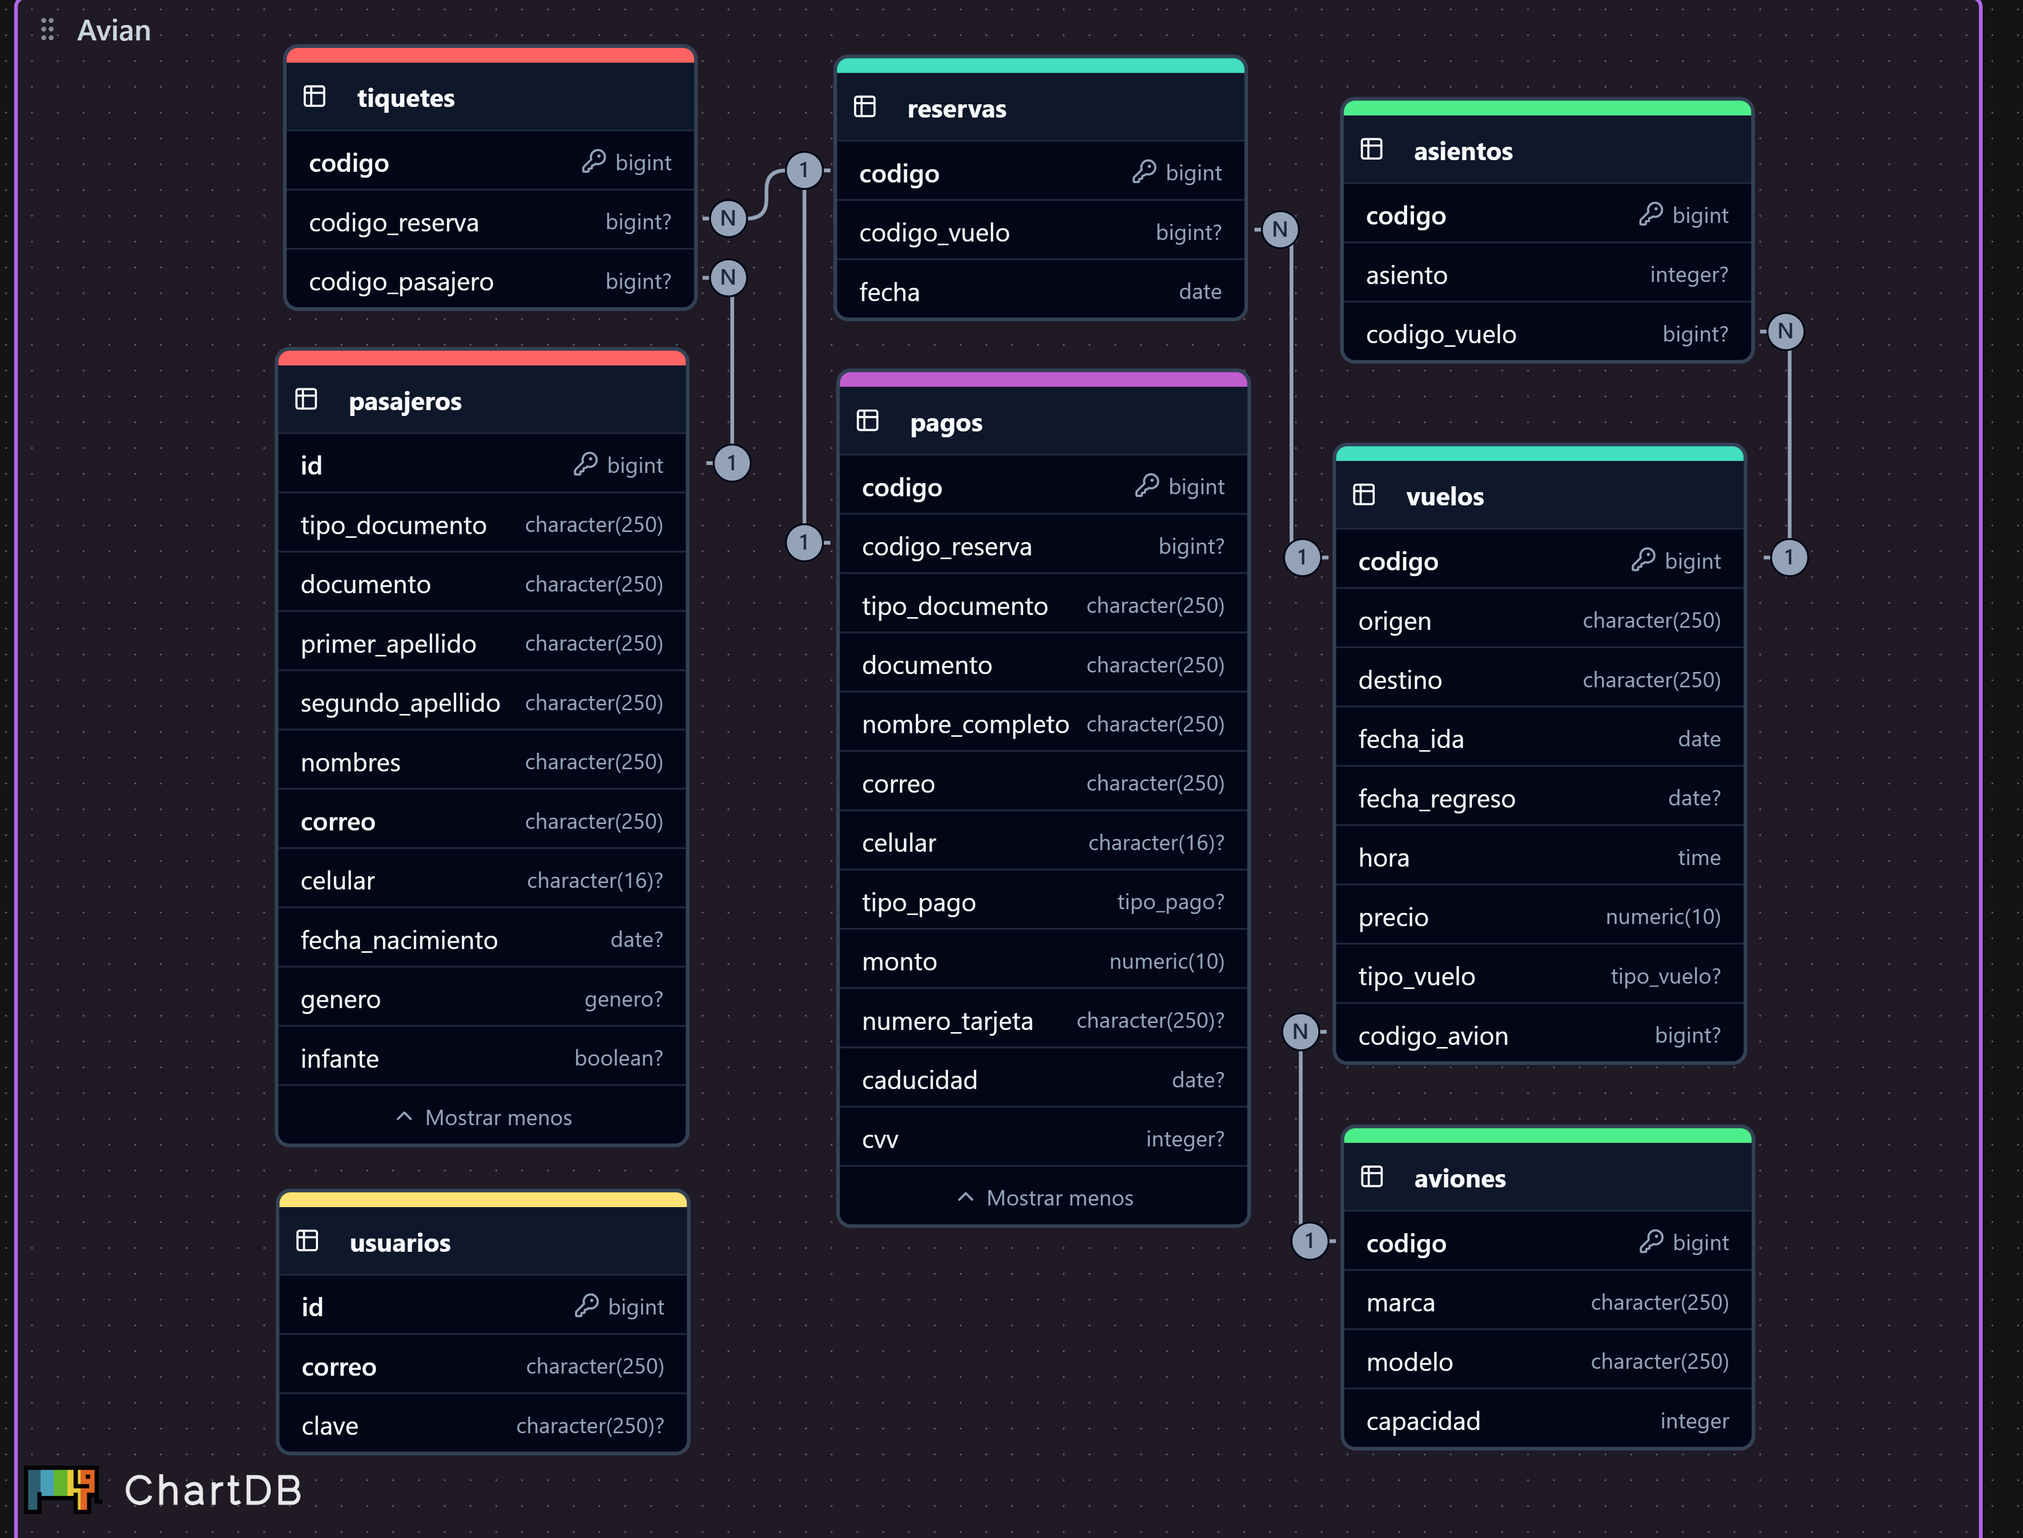
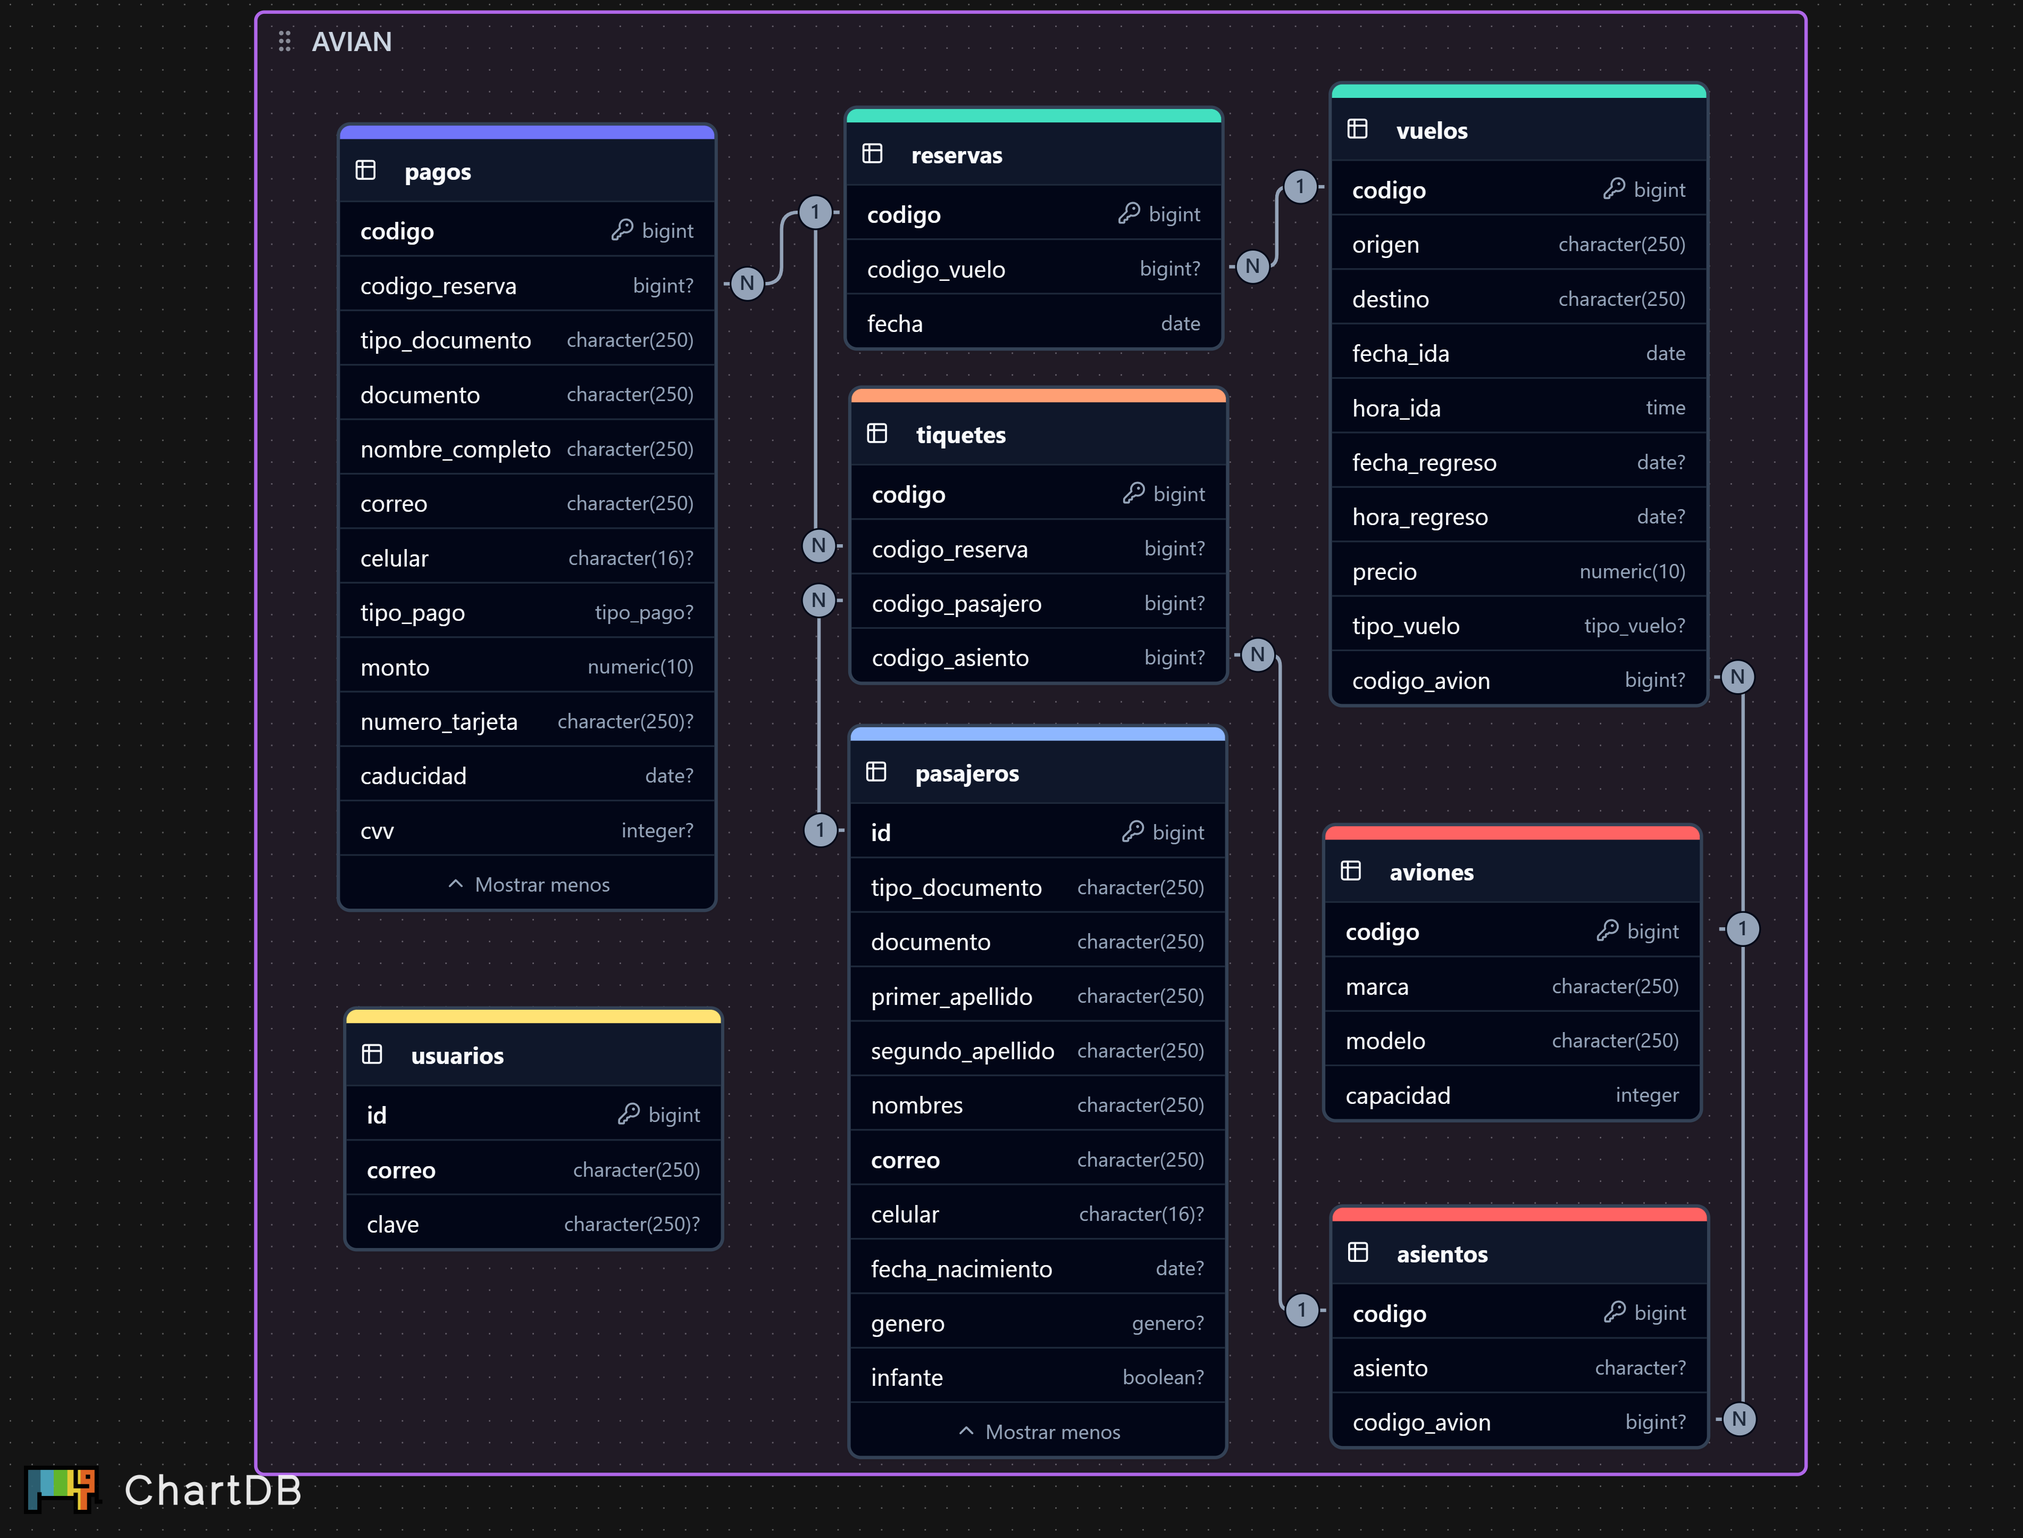
Se temirna el BackEnd

Changed region(s): [[0.1241, 0.0, 0.8996, 0.9651], [0.0, 0.0, 0.062, 0.0311], [0.8686, 0.0, 0.8996, 0.0311]]

diff --git a/BackEnd/app/context/SenaSoftContext.py b/BackEnd/app/context/SenaSoftContext.py
@@ -20,6 +20,7 @@ class Aviones(Base):
     capacidad: Mapped[int] = mapped_column(Integer, nullable=False)
 
     vuelos: Mapped[list['Vuelos']] = relationship('Vuelos', back_populates='aviones')
+    asientos: Mapped[list['Asientos']] = relationship('Asientos', back_populates='aviones')
 
 
 class Pasajeros(Base):
@@ -75,22 +76,22 @@ class Vuelos(Base):
     codigo_avion: Mapped[int] = mapped_column(BigInteger)
 
     aviones: Mapped['Aviones'] = relationship('Aviones', back_populates='vuelos')
-    asientos: Mapped[list['Asientos']] = relationship('Asientos', back_populates='vuelos')
     reservas: Mapped[list['Reservas']] = relationship('Reservas', back_populates='vuelos')
 
 
 class Asientos(Base):
     __tablename__ = 'asientos'
     __table_args__ = (
-        ForeignKeyConstraint(['codigo_vuelo'], ['vuelos.codigo'], name='asientos_codigo_vuelo_fkey'),
+        ForeignKeyConstraint(['codigo_avion'], ['aviones.codigo'], name='asientos_codigo_avion_fkey'),
         PrimaryKeyConstraint('codigo', name='asientos_pkey')
     )
 
     codigo: Mapped[int] = mapped_column(BigInteger, primary_key=True)
-    asiento: Mapped[int] = mapped_column(Integer)
-    codigo_vuelo: Mapped[int] = mapped_column(BigInteger)
+    asiento: Mapped[str] = mapped_column(String(250 ))
+    codigo_avion: Mapped[int] = mapped_column(BigInteger)
 
-    vuelos: Mapped['Vuelos'] = relationship('Vuelos', back_populates='asientos')
+    aviones: Mapped['Aviones'] = relationship('Aviones', back_populates='asientos')
+    tiquetes: Mapped['Tiquetes'] = relationship('Tiquetes', back_populates='asientos')
 
 
 class Reservas(Base):
@@ -137,12 +138,15 @@ class Tiquetes(Base):
     __table_args__ = (
         ForeignKeyConstraint(['codigo_pasajero'], ['pasajeros.id'], name='tiquetes_codigo_pasajero_fkey'),
         ForeignKeyConstraint(['codigo_reserva'], ['reservas.codigo'], name='tiquetes_codigo_reserva_fkey'),
+        ForeignKeyConstraint(['codigo_asiento'], ['asientos.codigo'], name='tiquetes_codigo_asiento_fkey'),
         PrimaryKeyConstraint('codigo', name='tiquetes_pkey')
     )
 
     codigo: Mapped[int] = mapped_column(BigInteger, primary_key=True)
     codigo_reserva: Mapped[int] = mapped_column(BigInteger)
     codigo_pasajero: Mapped[int] = mapped_column(BigInteger)
+    codigo_asiento: Mapped[int] = mapped_column(BigInteger)
 
     pasajeros: Mapped['Pasajeros'] = relationship('Pasajeros', back_populates='tiquetes')
     reservas: Mapped['Reservas'] = relationship('Reservas', back_populates='tiquetes')
+    asientos: Mapped['Asientos'] = relationship('Asientos', back_populates='tiquetes')

diff --git a/BackEnd/app/features/asientos/application/Add.py b/BackEnd/app/features/asientos/application/Add.py
@@ -18,37 +18,36 @@ class Add:
 
     async def execute_async(self, seat: SendDTO):
         get_plane_by_code = GetPlaneByCode(self.uow)
-        get_flight_by_code = GetFlightByCode(self.uow)
+        # get_flight_by_code = GetFlightByCode(self.uow)
 
         # Validacion que el asiento sea un numero positivo
         if seat.asiento <= 0:
             raise HTTPException(404, "El asiento es invalido")
 
-        # Llamamos al caso de uso de obtener vuelo por codigo
-        flight = await get_flight_by_code.execute_async(seat.codigo_vuelo)
+        # # Llamamos al caso de uso de obtener vuelo por codigo
+        # flight = await get_flight_by_code.execute_async(seat.codigo_vuelo)
         
-        # Validamos que el vuelo exista
-        if not flight:
-            raise HTTPException(404, "No se encontro el vuelo")
+        # # Validamos que el vuelo exista
+        # if not flight:
+        #     raise HTTPException(404, "No se encontro el vuelo")
         
         # Llamamos al caso de uso de obtener avion por codigo
-        plane = await get_plane_by_code.execute_async(flight.codigo_avion)
+        plane = await get_plane_by_code.execute_async(seat.codigo_avion)
 
         # Validamos que el avion exista
         if not plane:
             raise HTTPException(404, "No se encontro el avion")
+        
+        seats_list = await self.repository.get_seats_by_plane_code(seat.codigo_avion)
 
         # Validamos que el asiento no supere la capacidad del avion
-        if seat.asiento > plane.capacidad:
+        if len(seats_list) > plane.capacidad:
             raise HTTPException(400, "El asiento esta fuera de la capacidad del avion")
 
-        # Obtenemos todos los asientos
-        seats_list = await self.repository.get_all()
-
-        # Validamos que el asiento no este en la lista
+        # Validamos que el asiento no exista
         for seat_in_list in seats_list:
             if seat_in_list.asiento == seat.asiento:
-                raise HTTPException(400, "El asiento ya esta en uso")
+                raise HTTPException(400, "El asiento ya existe")
 
         return await self.repository.add(seat)
         

diff --git a/BackEnd/app/features/pasajeros/application/Add.py b/BackEnd/app/features/pasajeros/application/Add.py
@@ -2,8 +2,11 @@
 from app.core.unit_of_work import UnitOfWork
 # Repository
 from app.features.pasajeros.infrastructure.Repository import Repository
+# Application
+from app.features.pasajeros.application.GetByEmail import GetByEmail
 # DTOs
-from app.features.pasajeros.DTOs.SendDTO import SendDTO
+from app.features.pasajeros.DTOs.PassengerListDTO import PassengerListDTO
+from app.features.asientos.DTOs.SendDTO import SendDTO as AsientosSendDTO
 # Python
 from datetime import date
 
@@ -13,14 +16,24 @@ class Add:
         self.uow = uow
         self.repository = Repository(self.uow.session)
 
-    async def execute_async(self, passenger: SendDTO):
-        # Calculamos la edad
-        edad = date.today() - passenger.fecha_nacimiento
+    async def execute_async(self, passenger_list: PassengerListDTO):
+        get_by_email = GetByEmail(self.uow)
         
-        # Validamos si es un infante
-        if (edad.days / 365) < 3:
-            passenger.infante = True
-        else: 
-            passenger.infante = False
+        for passenger in passenger_list.lista_pasajeros:
+            passenger_in_db = await get_by_email.execute_async(passenger.correo)
+
+            if passenger_in_db:
+                continue
+
+            # Calculamos la edad
+            edad = date.today() - passenger.fecha_nacimiento
+            
+            # Validamos si es un infante
+            if (edad.days / 365) < 3:
+                passenger.infante = True
+            else: 
+                passenger.infante = False
+
+            await self.repository.add(passenger)
         
-        return await self.repository.add(passenger)
+        return "Pasajeros agregados"

diff --git a/BackEnd/app/features/vuelos/infrastructure/Repository.py b/BackEnd/app/features/vuelos/infrastructure/Repository.py
@@ -2,14 +2,18 @@
 from typing import List
 # SQLAlchemy
 from sqlalchemy.ext.asyncio import AsyncSession
-from sqlalchemy import select
+from sqlalchemy import select, or_, String, func
 # Context
 from app.context.SenaSoftContext import Vuelos
 # DTOs
 from app.features.vuelos.DTOs.GetDTO import GetDTO
 from app.features.vuelos.DTOs.SendDTO import SendDTO
+from app.features.vuelos.DTOs.EnumTipoVuelo import EnumTipoVuelo
 # Model
 from app.features.vuelos.domain.Model import VuelosModel
+# Python
+from typing import Optional
+from datetime import date
 
 
 class Repository:
@@ -17,8 +21,34 @@ class Repository:
     def __init__(self, db: AsyncSession):
         self.db = db
 
-    async def get_all(self):
-        flights_list = await self.db.execute(select(Vuelos))
+    async def get_all(
+            self, 
+            ida: Optional[EnumTipoVuelo], 
+            orig: Optional[str], 
+            dest: Optional[str], 
+            fida: Optional[date], 
+            freg: Optional[date]
+            ):
+        
+        query = select(Vuelos) 
+
+        if ida:
+            query = query.where(Vuelos.tipo_vuelo == ida)
+
+        if orig:
+            query = query.where(func.lower(Vuelos.origen) == orig.lower())
+
+        if dest:
+            query = query.where(func.lower(Vuelos.destino) == dest.lower())
+
+        if fida:
+            query = query.where(Vuelos.fecha_ida == fida)
+
+        if freg:
+            query = query.where(Vuelos.fecha_regreso == freg)
+
+        flights_list = await self.db.execute(query)
+
         flights_list = flights_list.scalars().all()
 
         return [GetDTO.model_validate(flight) for flight in flights_list]

diff --git a/BackEnd/app/features/reservas/application/Add.py b/BackEnd/app/features/reservas/application/Add.py
@@ -2,8 +2,11 @@
 from app.core.unit_of_work import UnitOfWork
 # Repository
 from app.features.reservas.infrastructure.Repository import Repository
+# Application
+from app.features.tiquetes.application.Add import Add as AddTicket
 # DTOs
 from app.features.reservas.DTOs.SendDTO import SendDTO
+from app.features.tiquetes.DTOs.SendDTO import SendDTO as SendTicketDTO
 
 
 class Add:
@@ -12,5 +15,17 @@ class Add:
         self.repository = Repository(self.uow.session)
 
     async def execute_async(self, reservation: SendDTO):
-        return await self.repository.add(reservation)
-        
+        add_ticket = AddTicket(self.uow)
+
+        added_reservation = await self.repository.add(reservation)
+
+        for passenger in reservation.pasajeros:
+            send_ticket_dto = SendTicketDTO(
+                codigo_reserva=added_reservation.codigo,
+                codigo_asiento=passenger.codigo_asiento,
+                codigo_pasajero=passenger.codigo_pasajero
+                )
+
+            await add_ticket.execute_async(send_ticket_dto)
+
+        return added_reservation

diff --git a/BackEnd/app/features/vuelos/application/GetAll.py b/BackEnd/app/features/vuelos/application/GetAll.py
@@ -2,6 +2,11 @@
 from app.core.unit_of_work import UnitOfWork
 # Repository
 from app.features.vuelos.infrastructure.Repository import Repository
+# DTOs
+from app.features.vuelos.DTOs.EnumTipoVuelo import EnumTipoVuelo
+# Python
+from typing import Optional
+from datetime import date
 
 
 class GetAll:
@@ -9,6 +14,13 @@ class GetAll:
         self.uow = uow
         self.repository = Repository(self.uow.session)
 
-    async def execute_async(self):
-        return await self.repository.get_all()
+    async def execute_async(
+            self, 
+            ida: Optional[EnumTipoVuelo], 
+            orig: Optional[str], 
+            dest: Optional[str], 
+            fida: Optional[date], 
+            freg: Optional[date]
+            ):
+        return await self.repository.get_all(ida, orig, dest, fida, freg)
         

diff --git a/BackEnd/app/features/vuelos/presentation/VuelosRouter.py b/BackEnd/app/features/vuelos/presentation/VuelosRouter.py
@@ -7,16 +7,25 @@ from app.features.vuelos.application.GetAll import GetAll
 # from app.features.vuelos.application.Add import Add
 # DTOs
 from app.features.vuelos.DTOs.SendDTO import SendDTO
-
+from app.features.vuelos.DTOs.EnumTipoVuelo import EnumTipoVuelo
+# Python
+from datetime import date
+from typing import Optional
 
 router = APIRouter()
 
 
 @router.get('/vuelos')
-async def get_all():
+async def get_all(
+    ida: Optional[EnumTipoVuelo] = None, 
+    orig: Optional[str] = None, 
+    dest: Optional[str] = None, 
+    fida: Optional[date] = None, 
+    freg: Optional[date] = None
+    ):
     async with UnitOfWork() as uow:
         use_case = GetAll(uow)
-        return await use_case.execute_async()
+        return await use_case.execute_async(ida, orig, dest, fida, freg)
     
     
 # @router.post('/products')

diff --git a/BackEnd/app/features/tiquetes/application/Add.py b/BackEnd/app/features/tiquetes/application/Add.py
@@ -2,8 +2,12 @@
 from app.core.unit_of_work import UnitOfWork
 # Repository
 from app.features.tiquetes.infrastructure.Repository import Repository
+# Application
+from app.features.tiquetes.application.GetTicketBySeatCode import GetTicketBySeatCode
 # DTOs
 from app.features.tiquetes.DTOs.SendDTO import SendDTO
+# FastApi
+from fastapi import HTTPException
 
 
 class Add:
@@ -12,5 +16,12 @@ class Add:
         self.repository = Repository(self.uow.session)
 
     async def execute_async(self, ticket: SendDTO):
+        get_ticket_by_seat_code = GetTicketBySeatCode(self.uow)
+
+        seat = await get_ticket_by_seat_code.execute_async(ticket.codigo_asiento)
+
+        if seat:
+            raise HTTPException(400, "El asiento ya esta ocupado")
+
         return await self.repository.add(ticket)
         

diff --git a/BackEnd/app/features/asientos/presentation/AsientosRouter.py b/BackEnd/app/features/asientos/presentation/AsientosRouter.py
@@ -5,6 +5,7 @@ from app.core.unit_of_work import UnitOfWork
 # Application
 from app.features.asientos.application.GetAll import GetAll
 from app.features.asientos.application.Add import Add
+from app.features.asientos.application.GetSeatsByPlaneCode import GetSeatsByPlaneCode
 # DTOs
 from app.features.asientos.DTOs.SendDTO import SendDTO
 
@@ -24,3 +25,9 @@ async def add(seat: SendDTO):
     async with UnitOfWork() as uow:
         use_case = Add(uow)
         return await use_case.execute_async(seat)
+
+@router.get('/asientos/avion/{code}')
+async def get_seats_by_plane_code(code: int):
+    async with UnitOfWork() as uow:
+        use_case = GetSeatsByPlaneCode(uow)
+        return await use_case.execute_async(code)

diff --git a/BackEnd/app/features/pasajeros/presentation/PasajerosRouter.py b/BackEnd/app/features/pasajeros/presentation/PasajerosRouter.py
@@ -6,7 +6,7 @@ from app.core.unit_of_work import UnitOfWork
 from app.features.pasajeros.application.GetAll import GetAll
 from app.features.pasajeros.application.Add import Add
 # DTOs
-from app.features.pasajeros.DTOs.SendDTO import SendDTO
+from app.features.pasajeros.DTOs.PassengerListDTO import PassengerListDTO
 
 
 router = APIRouter()
@@ -20,7 +20,7 @@ async def get_all():
     
     
 @router.post('/pasajeros')
-async def add(passenger: SendDTO):
+async def add(passenger_list: PassengerListDTO):
     async with UnitOfWork() as uow:
         use_case = Add(uow)
-        return await use_case.execute_async(passenger)
+        return await use_case.execute_async(passenger_list)

diff --git a/BackEnd/app/features/tiquetes/application/GetTicketBySeatCode.py b/BackEnd/app/features/tiquetes/application/GetTicketBySeatCode.py
@@ -1,14 +1,14 @@
 # UOW
 from app.core.unit_of_work import UnitOfWork
 # Repository
-from app.features.pasajeros.infrastructure.Repository import Repository
+from app.features.tiquetes.infrastructure.Repository import Repository
 
 
-class GetByCode:
+class GetTicketBySeatCode:
     def __init__(self, uow: UnitOfWork):
         self.uow = uow
         self.repository = Repository(self.uow.session)
 
     async def execute_async(self, code: int):
-        return await self.repository.get_by_code(code)
-        
+        return await self.repository.get_ticket_by_seat_code(code)
+            

diff --git a/BackEnd/app/features/asientos/application/GetSeatsByPlaneCode.py b/BackEnd/app/features/asientos/application/GetSeatsByPlaneCode.py
@@ -1,14 +1,14 @@
 # UOW
 from app.core.unit_of_work import UnitOfWork
 # Repository
-from app.features.pasajeros.infrastructure.Repository import Repository
+from app.features.asientos.infrastructure.Repository import Repository
 
 
-class GetByCode:
+class GetSeatsByPlaneCode:
     def __init__(self, uow: UnitOfWork):
         self.uow = uow
         self.repository = Repository(self.uow.session)
 
     async def execute_async(self, code: int):
-        return await self.repository.get_by_code(code)
+        return await self.repository.get_seats_by_plane_code(code)
         
